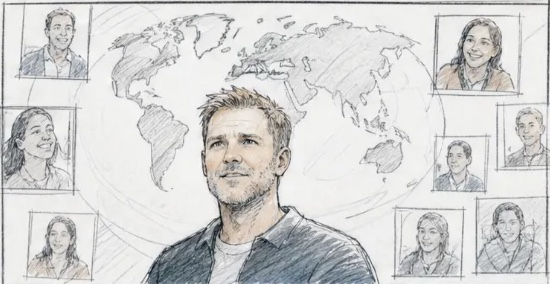
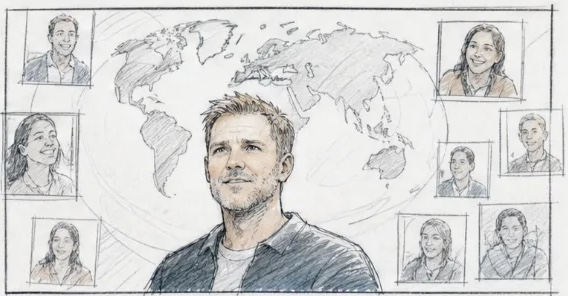
Copy tweaks for Dream and Together, uncrop the world-map sketch

diff --git a/plain-site/index.html b/plain-site/index.html
@@ -206,9 +206,9 @@ footer{padding:24px 0;text-align:center;font-size:12px;color:var(--muted);backgr
     <p class="kicker">Why this fits</p>
     <h2>Both of us turn an idea into something real.</h2>
     <div class="facts">
-      <div><b class="hfb dreamb"><img src="assets/dream-logo.png" alt="Dream"></b><p>Dream helps people start the business they have always dreamed of. Simon Squibb, the creator behind Dream, makes YouTube videos about people chasing their dreams and has a following of 28 million.</p></div>
+      <div><b class="hfb dreamb"><img src="assets/dream-logo.png" alt="Dream"></b><p>Dream helps people start the business they have always dreamed of. Simon Squibb, the visionary behind Dream, makes inspiring social media content about people chasing their dreams and has a following of 28 million.</p></div>
       <div><b class="hfb"><img src="assets/higgsfield-logo.svg" alt="Higgsfield"></b><p>Higgsfield is an all-in-one AI creative studio for cinematic images, video and characters, with over 25 million users. Its mission is to make professional video and image creation accessible to anyone with an idea.</p></div>
-      <div class="together"><b>Together</b><p>Higgsfield lets anyone turn a dream into something they can see, and Dream gives that an audience: Simon's YouTube channel, a live creator conference and a feature film. We want a long-term relationship that starts with something creative.</p></div>
+      <div class="together"><b>Together</b><p>Higgsfield lets anyone turn a dream into something they can see, and Dream gives that an audience through Simon's YouTube channel, a live creator conference and a feature film. We want a long-term relationship that starts with something creative.</p></div>
     </div>
   </div>
 </section>
